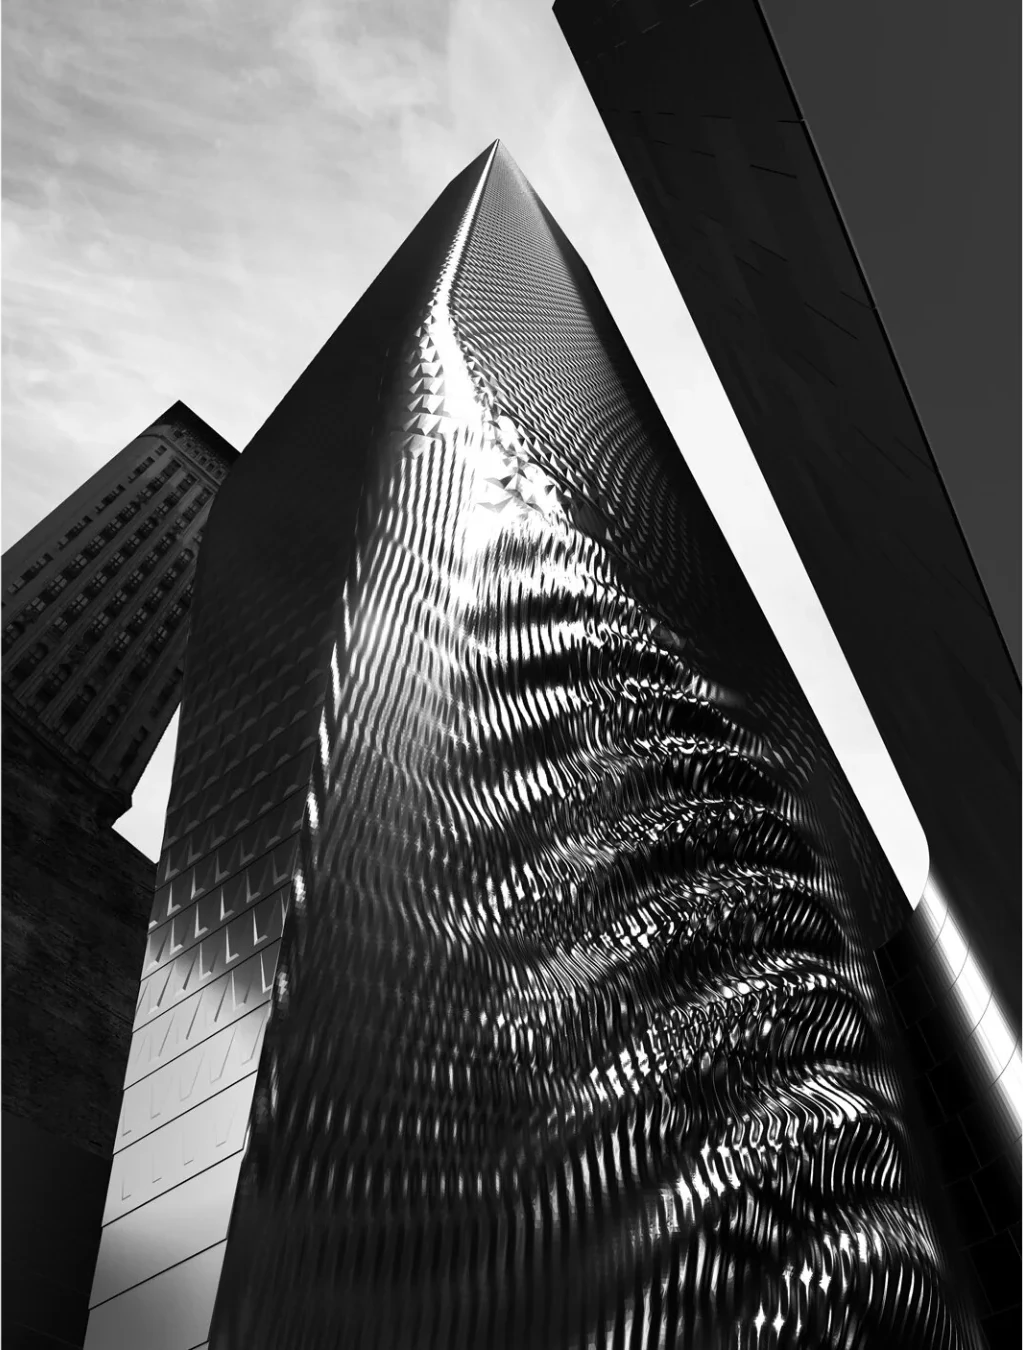
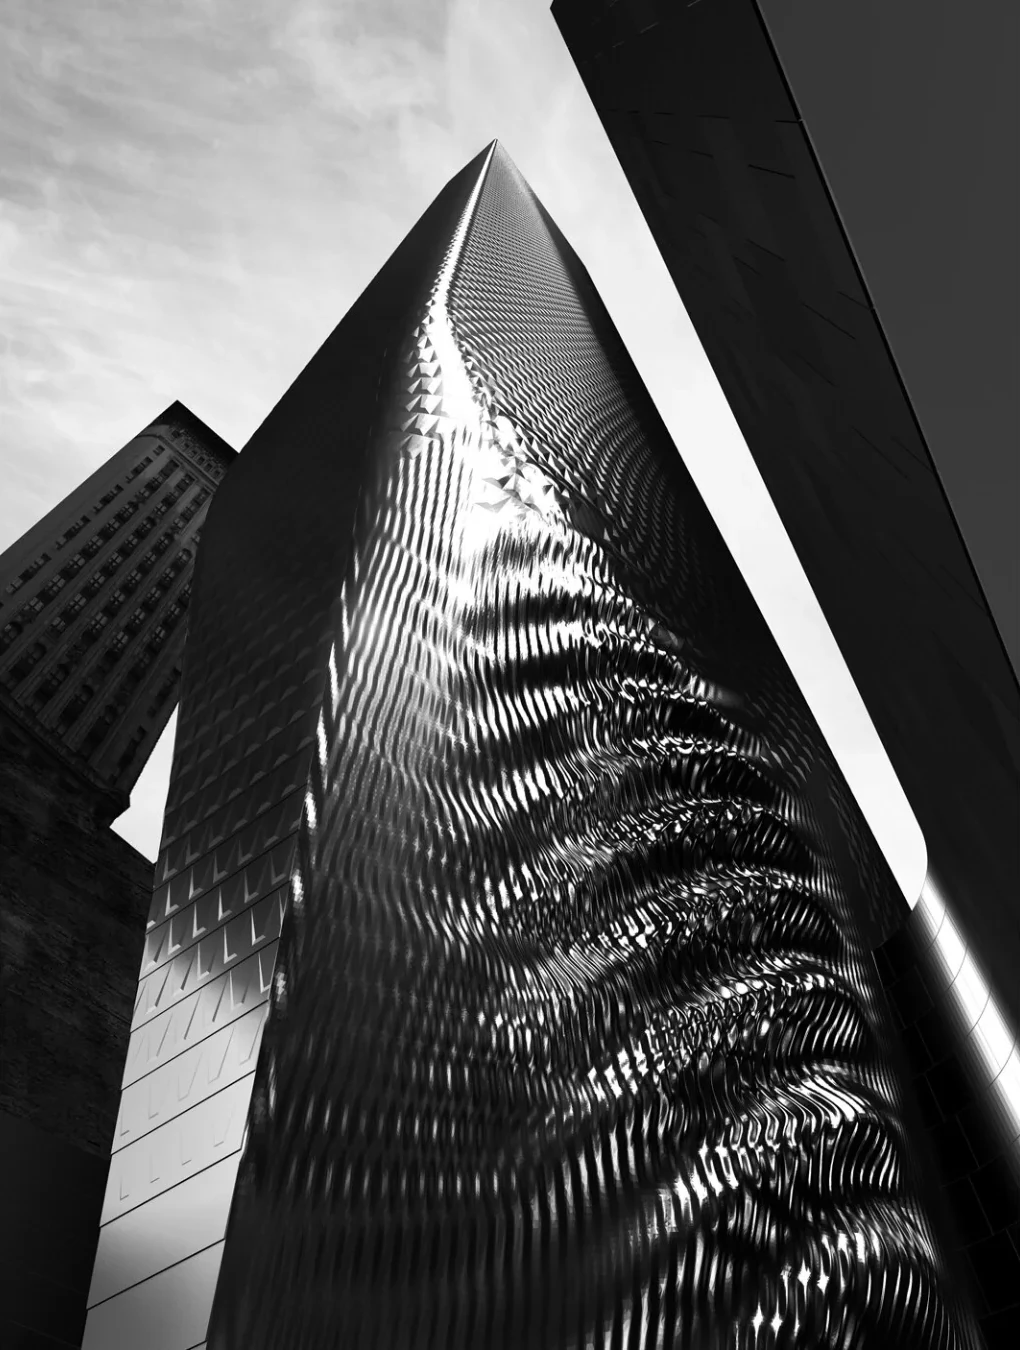
Round 5: top fade on Work/Gallery views, trim white slivers, centred Exhibition, About v1 back + v2 restored, Wall off
Claude-Session: https://claude.ai/code/session_01ANagskUYbjBJSkVdNmtyKJ

diff --git a/work/index.html b/work/index.html
@@ -7,10 +7,10 @@
   <meta name="description" content="Juan De Marco">
   <meta name="robots" content="noai, noimageai">
   <link rel="preload" href="/fonts/jost-latin-300-normal.woff2" as="font" type="font/woff2" crossorigin>
-  <link rel="stylesheet" href="/style.css?v=6f14e888">
-  <script src="/type.js?v=6f14e888"></script>
-  <script src="/images.js?v=6f14e888"></script>
-  <script src="/site.js?v=6f14e888" defer></script>
+  <link rel="stylesheet" href="/style.css?v=c6878b71">
+  <script src="/type.js?v=c6878b71"></script>
+  <script src="/images.js?v=c6878b71"></script>
+  <script src="/site.js?v=c6878b71" defer></script>
 </head>
 <body class="inner has-ed pg-work">
   <div class="scroller">
@@ -74,9 +74,9 @@
       <a class="edw-item edw-small" href="/work/family-of-curves/"><span class="edw-img"><img src="/images/work/family-of-curves/01.webp" width="2500" height="1406" alt="Family of Curves No. 1" loading="lazy" decoding="async" draggable="false"></span><span class="edw-t">Family of Curves No. 1</span><span class="edw-s">The Wiggle Effect</span></a>
       <a class="edw-item edw-small" href="/work/frankls-purposive-intention/"><span class="edw-img"><img src="/images/work/frankls-purposive-intention/01.webp" width="2400" height="1350" alt="Frankl’s Purposive Intention" loading="lazy" decoding="async" draggable="false"></span><span class="edw-t">Frankl’s Purposive Intention</span><span class="edw-s">Site-less Art Gallery</span></a>
       <a class="edw-item edw-lead" href="/work/talbot-road-residence/"><span class="edw-img"><img src="/images/work/talbot-road-residence/01.webp" width="2400" height="1200" alt="Talbot Road Residence" loading="lazy" decoding="async" draggable="false"></span><span class="edw-t">Talbot Road Residence</span><span class="edw-s">One-Directional Corridors</span></a>
-      <a class="edw-item edw-small" href="/work/julius/"><span class="edw-img"><img src="/images/work/julius/03.webp" width="1800" height="1350" alt="Julius" loading="lazy" decoding="async" draggable="false"></span><span class="edw-t">Julius</span><span class="edw-s">The Ever Moving Adornment</span></a>
+      <a class="edw-item edw-small" href="/work/julius/"><span class="edw-img"><img src="/images/work/julius/03.webp" width="1797" height="1348" alt="Julius" loading="lazy" decoding="async" draggable="false"></span><span class="edw-t">Julius</span><span class="edw-s">The Ever Moving Adornment</span></a>
       <a class="edw-item edw-small" href="/work/wedges/"><span class="edw-img"><img src="/images/work/wedges/03.webp" width="1800" height="2400" alt="Wedges" loading="lazy" decoding="async" draggable="false"></span><span class="edw-t">Wedges</span></a>
-      <a class="edw-item edw-small" href="/work/the-conflicted-icon/"><span class="edw-img"><img src="/images/work/the-conflicted-icon/04.webp" width="1023" height="1350" alt="The Conflicted Icon" loading="lazy" decoding="async" draggable="false"></span><span class="edw-t">The Conflicted Icon</span><span class="edw-s">Inverted Monumentality</span></a>
+      <a class="edw-item edw-small" href="/work/the-conflicted-icon/"><span class="edw-img"><img src="/images/work/the-conflicted-icon/04.webp" width="1020" height="1350" alt="The Conflicted Icon" loading="lazy" decoding="async" draggable="false"></span><span class="edw-t">The Conflicted Icon</span><span class="edw-s">Inverted Monumentality</span></a>
     </div>
   </main>
   <main class="ed2 e2-work">
@@ -101,9 +101,9 @@
       <img data-src="/images/work/american-promise/01.webp" width="2400" height="1350" alt="" decoding="async" draggable="false">
       <img data-src="/images/work/march-of-the-silhouettes/02.webp" width="2688" height="1292" alt="" decoding="async" draggable="false">
       <img data-src="/images/work/talbot-road-residence/01.webp" width="2400" height="1200" alt="" decoding="async" draggable="false">
-      <img data-src="/images/work/julius/03.webp" width="1800" height="1350" alt="" decoding="async" draggable="false">
+      <img data-src="/images/work/julius/03.webp" width="1797" height="1348" alt="" decoding="async" draggable="false">
       <img data-src="/images/work/wedges/03.webp" width="1800" height="2400" alt="" decoding="async" draggable="false">
-      <img data-src="/images/work/the-conflicted-icon/04.webp" width="1023" height="1350" alt="" decoding="async" draggable="false">
+      <img data-src="/images/work/the-conflicted-icon/04.webp" width="1020" height="1350" alt="" decoding="async" draggable="false">
       <img data-src="/images/work/frankls-purposive-intention/01.webp" width="2400" height="1350" alt="" decoding="async" draggable="false">
       <img data-src="/images/work/family-of-curves/01.webp" width="2500" height="1406" alt="" decoding="async" draggable="false">
     </div>

diff --git a/style.css b/style.css
@@ -1338,14 +1338,10 @@ body.home { background: var(--bg); }
 /* Work: no hard edge at the foot of the window; the page runs to the bottom */
 :root[data-design] body.inner.has-ed.pg-work .scroller, :root[data-design] body.inner.has-ed.pg-gal .scroller { bottom: 0; }   /* no hard edge at the foot */
 :root[data-design] body.pg-work .ed-work { padding-bottom: var(--ed-3); }
-/* About: the text 15% further right */
-:root[data-design="edit2"] .has-ed .e2-about { width: calc(100vw - var(--gutter)); grid-template-columns: max-content minmax(0, 1fr);
-  --fh: calc(100vh - var(--header-h) - var(--ed-band) - var(--ed-2) * 2); }
-/* text starts 62.6% across the window (it sat at ~47.6%; +15%) */
-.e2-about .e2a-text { max-width: 36em; margin-left: max(0px, calc(62.6vw - var(--ed-l) - var(--fh) * 707 / 1087 - var(--ed-3))); }
+/* About v2: back to its PR #74 layout (Juan, round 5); the 15% shift is saved in VERSIONS.md */
 /* About: Framed (settings) shows the drawing on its paper, the sheet fitted
    to the very box the drawing alone fills */
-.e2a-fig { position: relative; }
+.e2a-fig { position: relative; justify-self: start; }   /* the box is just the drawing, so the sheet fits it */
 .e2a-sheet { display: none; }
 :root[data-aframe="on"] .e2a-fig i { visibility: hidden; }
 :root[data-aframe="on"] .e2a-sheet { display: block; position: absolute; inset: 0; margin: auto; width: 100%; height: auto; max-height: 100%;
@@ -1354,3 +1350,39 @@ body.home { background: var(--bg); }
 :root[data-design="wall"] body.inner.has-ed.pg-gal .scroller { top: 0; bottom: 0; }
 .gw-page { scrollbar-width: none; }
 .gw-page::-webkit-scrollbar { display: none; }
+
+/* ---------- Round 5 (Juan, 2026-11-27) ---------- */
+/* Work + Gallery views: things slide all the way up under the name, with the
+   same soft fade as the Current Gallery instead of a hard band */
+@media (min-width: 701px) {
+  :root[data-design] body.inner.has-ed.pg-work .scroller, :root[data-design] body.inner.has-ed.pg-gal .scroller { top: 0; }
+  :root[data-design] body.inner.has-ed.pg-work .site-header::before, :root[data-design] body.inner.has-ed.pg-gal .site-header::before { display: block; }
+  :root[data-design] body.pg-work .ed-work { padding-top: calc(var(--header-h) + var(--ed-2)); }
+  :root[data-design="exh"] .gx-page { padding-top: calc(var(--header-h) + var(--ed-1)); }
+}
+/* Exhibition: centred, with the Current Gallery's side margins; sheets and gaps
+   scaled together to fit; sheets in a row share a centre line */
+.gx-page {
+  --gx-m: calc(max(160px, calc(240 * var(--s))) + var(--gutter) + 10vw);
+  --gx-w: calc(100vw - var(--gx-m) * 2);
+  --gx-gap: calc(var(--gx-w) * .03);   /* 48 of ~1600 design px: the old proportion */
+  --gx-cell: calc((var(--gx-w) - var(--gx-gap) * 2) / 3);
+  --gx-row: min(calc(var(--gx-cell) * 1.5), calc((100vh - var(--header-h) - var(--ed-band)) * .6));
+  width: var(--gx-w); margin-left: var(--gx-m); padding-left: 0; padding-right: 0;
+}
+.gx-grid { gap: var(--gx-gap); }
+.gx-stage { align-items: center; }
+.gx-sheet { height: min(100%, calc(var(--gx-cell) / var(--r))); }
+@media (max-width: 1000px) { .gx-page { --gx-m: var(--gutter); } .gx-cell { --gx-cell: calc((var(--gx-w) - var(--gx-gap)) / 2); } }
+/* the Framed row belongs to About v2 only */
+:root[data-design="edit"] .mode-pick .pick-row[data-tog="aframe"] { display: none; }
+/* About Editorial (v1) is back as a view: it fits the window too, like v2 */
+@media (min-width: 701px) {
+  :root[data-design="edit"] .ed-about { --ts: min(var(--text-size), 1.62vh); }
+  .ed-about .eda-lead { font-size: calc(var(--ts, var(--text-size)) * 1.8); margin-bottom: min(var(--ed-2), 4.4vh); }
+  .ed-about .eda-body { font-size: calc(var(--ts, var(--text-size)) * 1.05); }
+  .ed-about .eda-cred { font-size: calc(var(--ts, var(--text-size)) * .9); margin-top: min(var(--ed-2), 4.4vh); padding-top: min(var(--ed-1), 2.4vh); }
+  .ed-about .eda-contact { margin-top: min(var(--ed-3), 6.5vh); }
+  .ed-about .about-ask, .ed-about .email.email { font-size: var(--ts, var(--text-size)) !important; }
+  .ed-about .eda-legal { margin-top: min(var(--ed-2), 4.4vh); }
+}

diff --git a/work/the-conflicted-icon/index.html b/work/the-conflicted-icon/index.html
@@ -7,10 +7,10 @@
   <meta name="description" content="Juan De Marco">
   <meta name="robots" content="noai, noimageai">
   <link rel="preload" href="/fonts/jost-latin-300-normal.woff2" as="font" type="font/woff2" crossorigin>
-  <link rel="stylesheet" href="/style.css?v=6f14e888">
-  <script src="/type.js?v=6f14e888"></script>
-  <script src="/images.js?v=6f14e888"></script>
-  <script src="/site.js?v=6f14e888" defer></script>
+  <link rel="stylesheet" href="/style.css?v=c6878b71">
+  <script src="/type.js?v=c6878b71"></script>
+  <script src="/images.js?v=c6878b71"></script>
+  <script src="/site.js?v=c6878b71" defer></script>
 </head>
 <body class="inner room">
   <div class="scroller">
@@ -24,9 +24,9 @@
         <div class="frame">
         <img class="slide contain is-on" src="/images/work/the-conflicted-icon/01.webp" data-r="1.7778" alt="The Conflicted Icon, image 1 of 9" decoding="async" draggable="false">
         <img class="slide contain" data-src="/images/work/the-conflicted-icon/02.webp" data-r="1.7778" alt="The Conflicted Icon, image 2 of 9" decoding="async" draggable="false">
-        <img class="slide contain" data-src="/images/work/the-conflicted-icon/03.webp" data-r="0.8185" alt="The Conflicted Icon, image 3 of 9" decoding="async" draggable="false">
-        <img class="slide contain" data-src="/images/work/the-conflicted-icon/04.webp" data-r="0.7578" alt="The Conflicted Icon, image 4 of 9" decoding="async" draggable="false">
-        <img class="slide contain" data-src="/images/work/the-conflicted-icon/05.webp" data-r="0.9889" alt="The Conflicted Icon, image 5 of 9" decoding="async" draggable="false">
+        <img class="slide contain" data-src="/images/work/the-conflicted-icon/03.webp" data-r="0.8170" alt="The Conflicted Icon, image 3 of 9" decoding="async" draggable="false">
+        <img class="slide contain" data-src="/images/work/the-conflicted-icon/04.webp" data-r="0.7556" alt="The Conflicted Icon, image 4 of 9" decoding="async" draggable="false">
+        <img class="slide contain" data-src="/images/work/the-conflicted-icon/05.webp" data-r="0.9874" alt="The Conflicted Icon, image 5 of 9" decoding="async" draggable="false">
         <img class="slide contain" data-src="/images/work/the-conflicted-icon/06.webp" data-r="2.8543" alt="The Conflicted Icon, image 6 of 9" decoding="async" draggable="false">
         <img class="slide contain" data-src="/images/work/the-conflicted-icon/07.webp" data-r="3.0710" alt="The Conflicted Icon, image 7 of 9" decoding="async" draggable="false">
         <img class="slide contain" data-src="/images/work/the-conflicted-icon/08.webp" data-r="2.4815" alt="The Conflicted Icon, image 8 of 9" decoding="async" draggable="false">

diff --git a/work/julius/index.html b/work/julius/index.html
@@ -7,10 +7,10 @@
   <meta name="description" content="Juan De Marco">
   <meta name="robots" content="noai, noimageai">
   <link rel="preload" href="/fonts/jost-latin-300-normal.woff2" as="font" type="font/woff2" crossorigin>
-  <link rel="stylesheet" href="/style.css?v=6f14e888">
-  <script src="/type.js?v=6f14e888"></script>
-  <script src="/images.js?v=6f14e888"></script>
-  <script src="/site.js?v=6f14e888" defer></script>
+  <link rel="stylesheet" href="/style.css?v=c6878b71">
+  <script src="/type.js?v=c6878b71"></script>
+  <script src="/images.js?v=c6878b71"></script>
+  <script src="/site.js?v=c6878b71" defer></script>
 </head>
 <body class="inner room">
   <div class="scroller">
@@ -24,8 +24,8 @@
         <div class="frame">
         <img class="slide contain is-on" src="/images/work/julius/01.webp" data-r="1.7778" alt="Julius, image 1 of 9" decoding="async" draggable="false">
         <img class="slide contain" data-src="/images/work/julius/02.webp" data-r="1.7778" alt="Julius, image 2 of 9" decoding="async" draggable="false">
-        <img class="slide contain" data-src="/images/work/julius/03.webp" data-r="1.3333" alt="Julius, image 3 of 9" decoding="async" draggable="false">
-        <img class="slide contain" data-src="/images/work/julius/04.webp" data-r="1.4607" alt="Julius, image 4 of 9" decoding="async" draggable="false">
+        <img class="slide contain" data-src="/images/work/julius/03.webp" data-r="1.3331" alt="Julius, image 3 of 9" decoding="async" draggable="false">
+        <img class="slide contain" data-src="/images/work/julius/04.webp" data-r="1.4578" alt="Julius, image 4 of 9" decoding="async" draggable="false">
         <img class="slide contain" data-src="/images/work/julius/05.webp" data-r="1.7778" alt="Julius, image 5 of 9" decoding="async" draggable="false">
         <img class="slide contain" data-src="/images/work/julius/06.webp" data-r="1.2595" alt="Julius, image 6 of 9" decoding="async" draggable="false">
         <img class="slide contain" data-src="/images/work/julius/07.webp" data-r="1.7016" alt="Julius, image 7 of 9" decoding="async" draggable="false">

diff --git a/work/frankls-purposive-intention/index.html b/work/frankls-purposive-intention/index.html
@@ -7,10 +7,10 @@
   <meta name="description" content="Juan De Marco">
   <meta name="robots" content="noai, noimageai">
   <link rel="preload" href="/fonts/jost-latin-300-normal.woff2" as="font" type="font/woff2" crossorigin>
-  <link rel="stylesheet" href="/style.css?v=6f14e888">
-  <script src="/type.js?v=6f14e888"></script>
-  <script src="/images.js?v=6f14e888"></script>
-  <script src="/site.js?v=6f14e888" defer></script>
+  <link rel="stylesheet" href="/style.css?v=c6878b71">
+  <script src="/type.js?v=c6878b71"></script>
+  <script src="/images.js?v=c6878b71"></script>
+  <script src="/site.js?v=c6878b71" defer></script>
 </head>
 <body class="inner room">
   <div class="scroller">
@@ -29,7 +29,7 @@
         <img class="slide contain" data-src="/images/work/frankls-purposive-intention/05.webp" data-r="1.5918" alt="Frankl’s Purposive Intention, image 5 of 9" decoding="async" draggable="false">
         <img class="slide contain" data-src="/images/work/frankls-purposive-intention/06.webp" data-r="1.4934" alt="Frankl’s Purposive Intention, image 6 of 9" decoding="async" draggable="false">
         <img class="slide contain" data-src="/images/work/frankls-purposive-intention/07.webp" data-r="1.7778" alt="Frankl’s Purposive Intention, image 7 of 9" decoding="async" draggable="false">
-        <img class="slide contain" data-src="/images/work/frankls-purposive-intention/08.webp" data-r="1.0778" alt="Frankl’s Purposive Intention, image 8 of 9" decoding="async" draggable="false">
+        <img class="slide contain" data-src="/images/work/frankls-purposive-intention/08.webp" data-r="1.0763" alt="Frankl’s Purposive Intention, image 8 of 9" decoding="async" draggable="false">
         <img class="slide contain" data-src="/images/work/frankls-purposive-intention/09.webp" data-r="1.7778" alt="Frankl’s Purposive Intention, image 9 of 9" decoding="async" draggable="false">
           <button class="slide-btn prev" type="button" aria-label="Previous image">&lsaquo;</button>
           <button class="slide-btn next" type="button" aria-label="Next image">&rsaquo;</button>

diff --git a/about/index.html b/about/index.html
@@ -7,10 +7,10 @@
   <meta name="description" content="Juan De Marco">
   <meta name="robots" content="noai, noimageai">
   <link rel="preload" href="/fonts/jost-latin-300-normal.woff2" as="font" type="font/woff2" crossorigin>
-  <link rel="stylesheet" href="/style.css?v=6f14e888">
-  <script src="/type.js?v=6f14e888"></script>
-  <script src="/images.js?v=6f14e888"></script>
-  <script src="/site.js?v=6f14e888" defer></script>
+  <link rel="stylesheet" href="/style.css?v=c6878b71">
+  <script src="/type.js?v=c6878b71"></script>
+  <script src="/images.js?v=c6878b71"></script>
+  <script src="/site.js?v=c6878b71" defer></script>
 </head>
 <body class="inner photo has-ed">
   <img id="cover" class="cover" alt="" decoding="async" fetchpriority="high">
@@ -118,6 +118,11 @@
   <div class="mode-pick" id="mode-pick" role="group" aria-label="View mode" hidden>
     <button type="button" class="pick-row" data-tog="mode">Dark mode: <span></span></button>
     <button type="button" class="pick-row" data-tog="aframe">Framed: <span></span></button>
+    <div class="pick-layouts pick-design" role="radiogroup" aria-label="View">
+      <span class="pick-head">View:</span>
+      <button type="button" class="pick-row pick-opt" role="radio" aria-checked="false" data-dv="edit2">Editorial v2</button>
+      <button type="button" class="pick-row pick-opt" role="radio" aria-checked="false" data-dv="edit">Editorial</button>
+    </div>
     <div class="pick-layouts pick-work">
       <span class="pick-head">Layout:</span>
       <button type="button" class="pick-row pick-opt" data-wv="squares">Squares</button>

diff --git a/prints/index.html b/prints/index.html
@@ -7,10 +7,10 @@
   <meta name="description" content="Juan De Marco">
   <meta name="robots" content="noai, noimageai">
   <link rel="preload" href="/fonts/jost-latin-300-normal.woff2" as="font" type="font/woff2" crossorigin>
-  <link rel="stylesheet" href="/style.css?v=6f14e888">
-  <script src="/type.js?v=6f14e888"></script>
-  <script src="/images.js?v=6f14e888"></script>
-  <script src="/site.js?v=6f14e888" defer></script>
+  <link rel="stylesheet" href="/style.css?v=c6878b71">
+  <script src="/type.js?v=c6878b71"></script>
+  <script src="/images.js?v=c6878b71"></script>
+  <script src="/site.js?v=c6878b71" defer></script>
 </head>
 <body class="inner has-ed pg-gal">
   <div class="scroller">
@@ -229,7 +229,6 @@
       <span class="pick-head">View:</span>
       <button type="button" class="pick-row pick-opt" role="radio" aria-checked="false" data-dv="current">Current</button>
       <button type="button" class="pick-row pick-opt" role="radio" aria-checked="false" data-dv="exh">Exhibition</button>
-      <button type="button" class="pick-row pick-opt" role="radio" aria-checked="false" data-dv="wall">Wall</button>
     </div>
     <div class="pick-layouts pick-work">
       <span class="pick-head">Layout:</span>

diff --git a/index.html b/index.html
@@ -7,10 +7,10 @@
   <meta name="description" content="Juan De Marco">
   <meta name="robots" content="noai, noimageai">
   <link rel="preload" href="/fonts/jost-latin-300-normal.woff2" as="font" type="font/woff2" crossorigin>
-  <link rel="stylesheet" href="/style.css?v=6f14e888">
-  <script src="/type.js?v=6f14e888"></script>
-  <script src="/images.js?v=6f14e888"></script>
-  <script src="/site.js?v=6f14e888" defer></script>
+  <link rel="stylesheet" href="/style.css?v=c6878b71">
+  <script src="/type.js?v=c6878b71"></script>
+  <script src="/images.js?v=c6878b71"></script>
+  <script src="/site.js?v=c6878b71" defer></script>
 </head>
 <body class="home">
   <img id="cover" class="cover" alt="" decoding="async" fetchpriority="high">

diff --git a/type.js b/type.js
@@ -44,8 +44,8 @@
     // Work = Editorial, About = Editorial v2, for good (Juan, 2026-11-27); their
     // other views are saved (VERSIONS.md): put them back in "ok" to choose again
     work:    { def: 'edit',  ok: [] },
-    about:   { def: 'edit2', ok: [] },
-    gallery: { def: '',      ok: ['exh', 'wall'] }      // Current (Index / Cluster) stays the Gallery default
+    about:   { def: 'edit2', ok: ['edit', 'edit2'] },
+    gallery: { def: '',      ok: ['exh'] }      // Current (Index / Cluster) stays the Gallery default
   };
   window.jdmPageOf = function (path) {
     return { '/work/': 'work', '/about/': 'about', '/prints/': 'gallery' }[String(path).replace(/index\.html$/, '')] || '';

diff --git a/prints/elevations/index.html b/prints/elevations/index.html
@@ -7,10 +7,10 @@
   <meta name="description" content="Juan De Marco">
   <meta name="robots" content="noai, noimageai">
   <link rel="preload" href="/fonts/jost-latin-300-normal.woff2" as="font" type="font/woff2" crossorigin>
-  <link rel="stylesheet" href="/style.css?v=6f14e888">
-  <script src="/type.js?v=6f14e888"></script>
-  <script src="/images.js?v=6f14e888"></script>
-  <script src="/site.js?v=6f14e888" defer></script>
+  <link rel="stylesheet" href="/style.css?v=c6878b71">
+  <script src="/type.js?v=c6878b71"></script>
+  <script src="/images.js?v=c6878b71"></script>
+  <script src="/site.js?v=c6878b71" defer></script>
 </head>
 <body class="inner room">
   <div class="scroller">

diff --git a/prints/fields/index.html b/prints/fields/index.html
@@ -7,10 +7,10 @@
   <meta name="description" content="Juan De Marco">
   <meta name="robots" content="noai, noimageai">
   <link rel="preload" href="/fonts/jost-latin-300-normal.woff2" as="font" type="font/woff2" crossorigin>
-  <link rel="stylesheet" href="/style.css?v=6f14e888">
-  <script src="/type.js?v=6f14e888"></script>
-  <script src="/images.js?v=6f14e888"></script>
-  <script src="/site.js?v=6f14e888" defer></script>
+  <link rel="stylesheet" href="/style.css?v=c6878b71">
+  <script src="/type.js?v=c6878b71"></script>
+  <script src="/images.js?v=c6878b71"></script>
+  <script src="/site.js?v=c6878b71" defer></script>
 </head>
 <body class="inner room">
   <div class="scroller">

diff --git a/prints/lines/index.html b/prints/lines/index.html
@@ -7,10 +7,10 @@
   <meta name="description" content="Juan De Marco">
   <meta name="robots" content="noai, noimageai">
   <link rel="preload" href="/fonts/jost-latin-300-normal.woff2" as="font" type="font/woff2" crossorigin>
-  <link rel="stylesheet" href="/style.css?v=6f14e888">
-  <script src="/type.js?v=6f14e888"></script>
-  <script src="/images.js?v=6f14e888"></script>
-  <script src="/site.js?v=6f14e888" defer></script>
+  <link rel="stylesheet" href="/style.css?v=c6878b71">
+  <script src="/type.js?v=c6878b71"></script>
+  <script src="/images.js?v=c6878b71"></script>
+  <script src="/site.js?v=c6878b71" defer></script>
 </head>
 <body class="inner room">
   <div class="scroller">
